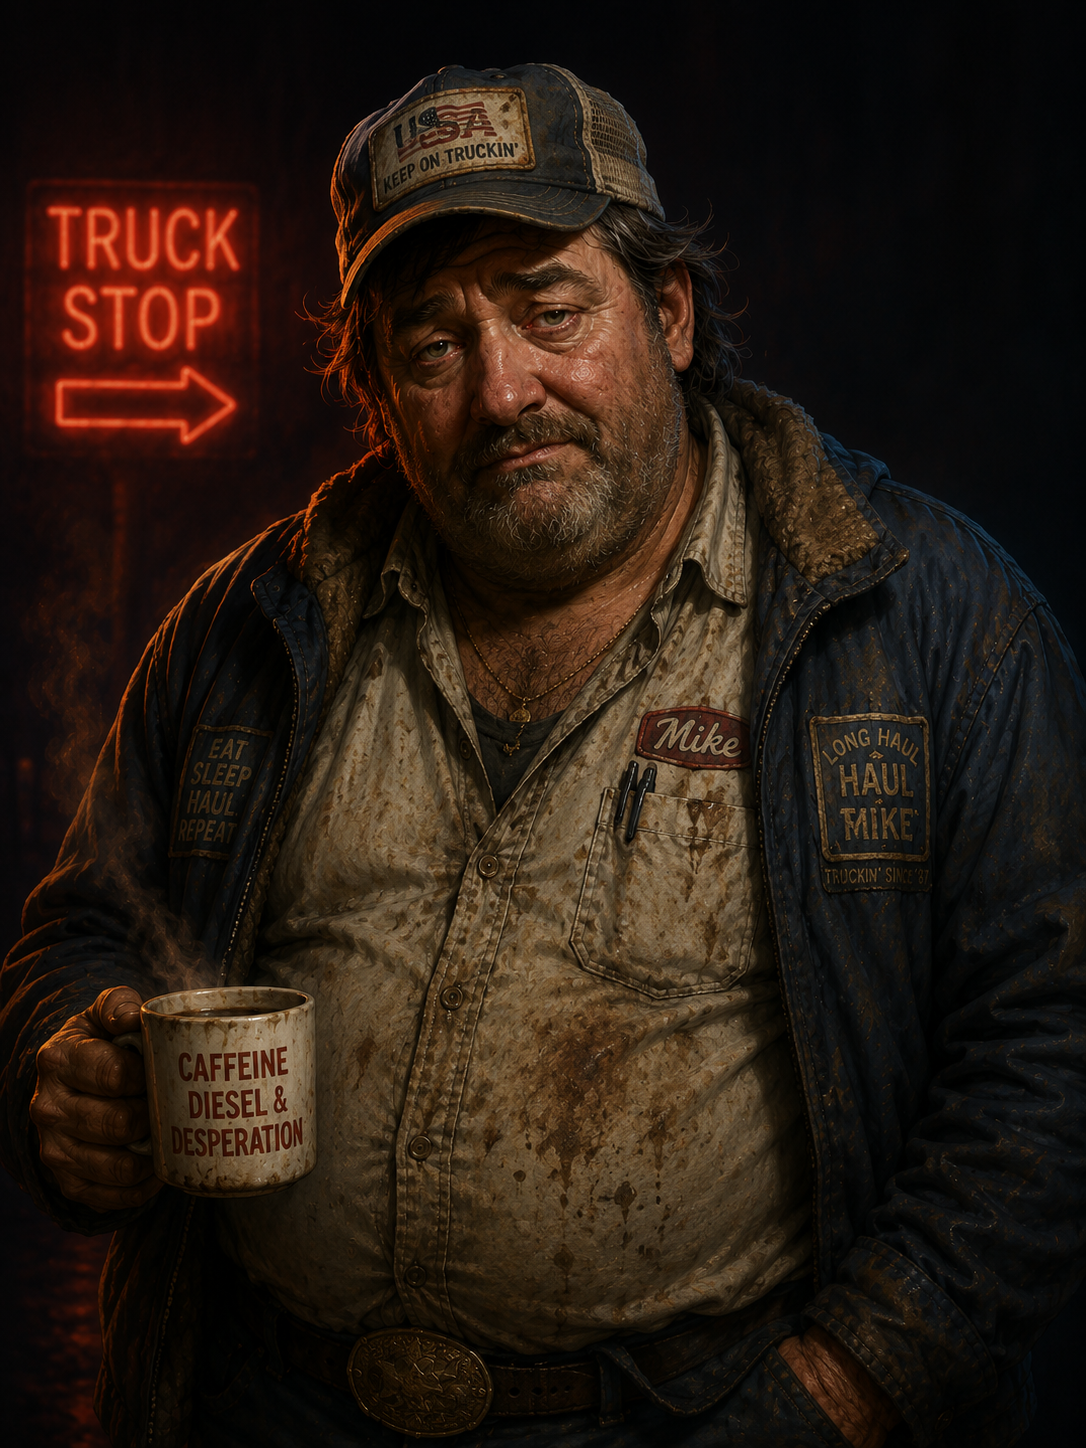
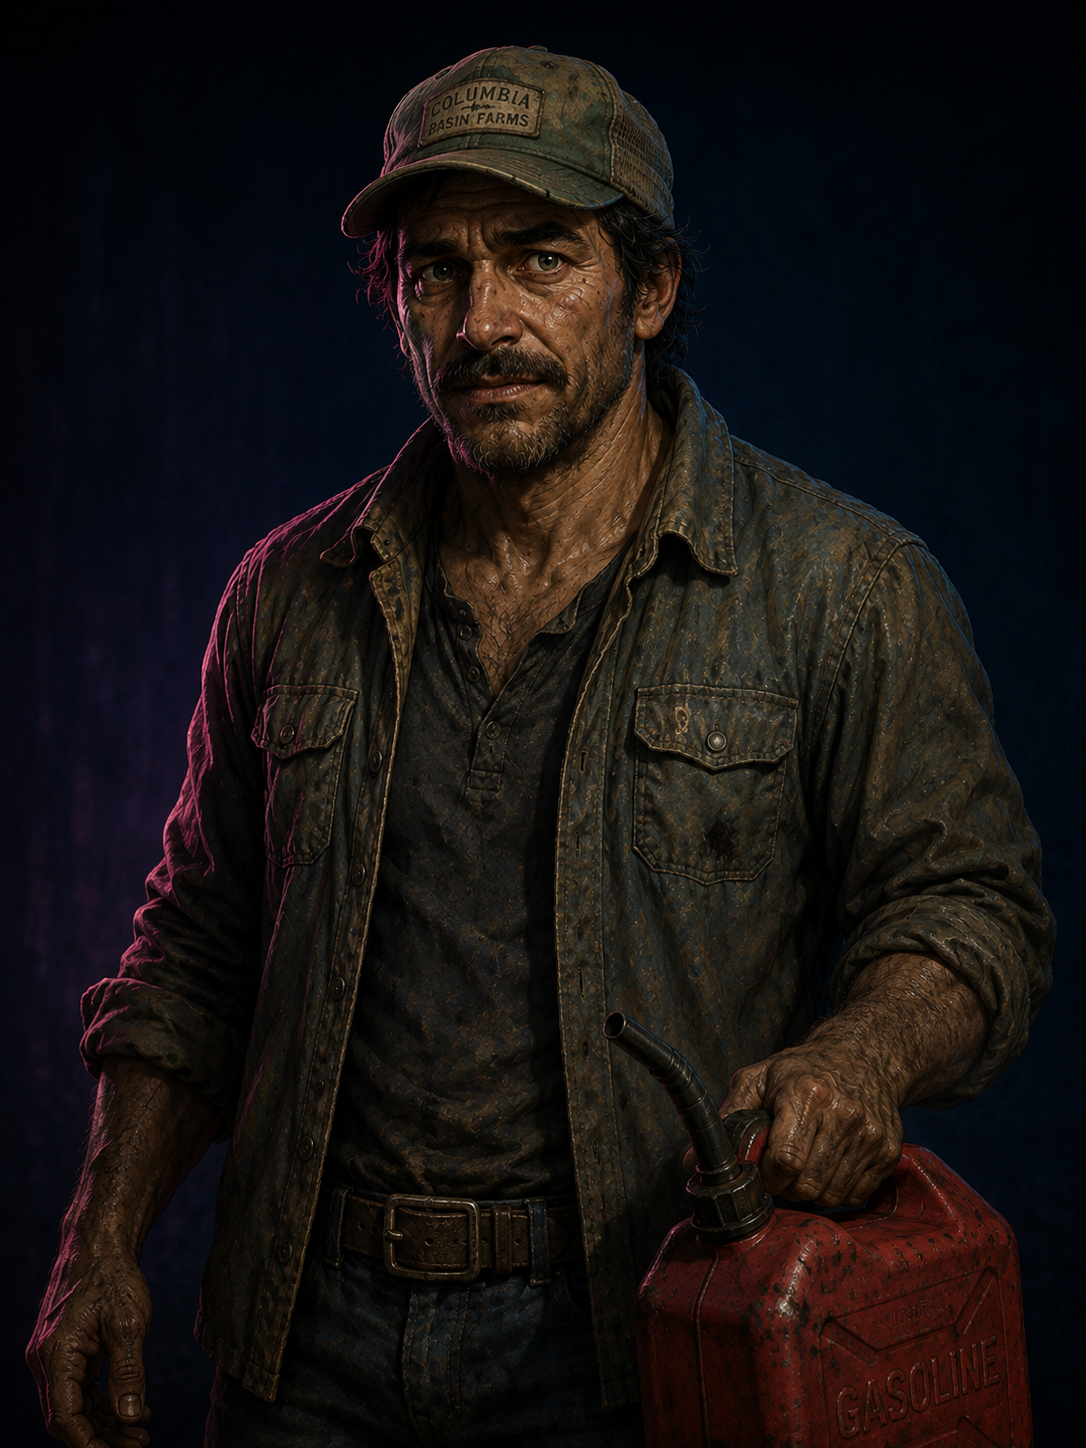
Encounters: farm worker art + 6 new cards (women characters)
Adds Bellevue app founder, Issaquah hitchhiker, Cle Elum park ranger,
Ellensburg diner waitress, Hatton roadside grandma, Washtucna tow driver
(6 new stops covered, mostly women). New npc_* portrait keys + manifest
entries; procedural placeholders until art is dropped in.

diff --git a/src/data/encounters.js b/src/data/encounters.js
@@ -126,6 +126,109 @@ export const REST_STOP_ENCOUNTERS = [
       { label: "Risk it on empty", effects: {} },
     ],
   },
+
+  // ── Bellevue (B) — tech-money hustle ────────────────────────────────────
+  {
+    id: 'bellevue_traffic_app',
+    stopId: 'B', weight: 2,
+    portrait: 'biz_founder', speaker: 'App Founder',
+    line: "Our app reroutes you around every speed trap to Pullman. Freemium. The free part is the disappointment.",
+    fact: "Bellevue grew from a quiet suburb into a glass-tower tech hub in barely two decades.",
+    choices: [
+      {
+        label: "Buy premium ($60)",
+        cost: 60,
+        chance: [
+          { p: 0.7, effects: { heatStars: -1, timeSec: +30, dialogue: "It actually works — you glide past two traps. She's already pitching a Series B." } },
+          { p: 0.3, effects: { dialogue: "\"Servers are scaling,\" she says, as the app crashes. So does your $60." } },
+        ],
+      },
+      { label: "Ask for the free version", effects: { revealHazard: 'speed_trap' } },
+      { label: "Keep your data", effects: {} },
+    ],
+  },
+
+  // ── Issaquah (I) — hitchhiker toward the pass ───────────────────────────
+  {
+    id: 'issaquah_hitcher',
+    stopId: 'I', weight: 2,
+    portrait: 'hiker_woman', speaker: 'Hitchhiker',
+    line: "I need a lift toward the pass. Gas money up front, zero small talk. Best offer you'll get today.",
+    fact: "Issaquah sits at the foot of the Cascades, where the suburbs finally give up.",
+    choices: [
+      {
+        label: "Pick her up",
+        chance: [
+          { p: 0.6, effects: { cash: +40, dialogue: "She pays, navigates the curves better than your GPS, and vanishes at the summit. Ideal passenger." } },
+          { p: 0.4, effects: { heatStars: +1, dialogue: "Turns out she's on a list. Now you're adjacent to it." } },
+        ],
+      },
+      { label: "Take gas money, no ride", effects: { cash: +20, dialogue: "\"Cold. Respect.\" She hands you a twenty and walks on." } },
+      { label: "Drive on", effects: {} },
+    ],
+  },
+
+  // ── Cle Elum (C) — elk country ranger ───────────────────────────────────
+  {
+    id: 'cleelum_ranger',
+    stopId: 'C', weight: 2,
+    portrait: 'park_ranger', speaker: 'Park Ranger',
+    line: "Elk move at dusk through here, and they do not check their blind spots. Neither do you, apparently.",
+    fact: "The forested Cle Elum stretch is prime elk country in the Cascade foothills.",
+    choices: [
+      { label: "Heed the warning", effects: { buff: 'elk_ready', revealHazard: 'elk', dialogue: "\"Slow at the tree lines. They're bigger than your car's opinions.\"" } },
+      { label: "Point her at a 'lost hiker' up the road", effects: { heatStars: -1, dialogue: "She radios it in, distracted. Your record breathes a little easier." } },
+      { label: "Nod and leave", effects: {} },
+    ],
+  },
+
+  // ── Ellensburg (E) — rodeo-town diner ───────────────────────────────────
+  {
+    id: 'ellensburg_diner',
+    stopId: 'E', weight: 3,
+    portrait: 'diner_waitress', speaker: 'Diner Waitress',
+    line: "Rodeo's in town so the coffee's fresh and the regulars are feral. You look like you're running from something. Pie?",
+    fact: "Ellensburg is Kittitas County's rodeo-and-college town, roughly halfway across the state.",
+    choices: [
+      { label: "Coffee & pie ($12)", cost: 12, effects: { hp: +4, timeSec: +15, dialogue: "Best decision you've made all trip. Low bar, but still." } },
+      { label: "Ask what's ahead", effects: { revealHazard: 'wind', dialogue: "\"Wind past Vantage'll part your hair through the windshield.\"" } },
+      { label: "Just the check", effects: {} },
+    ],
+  },
+
+  // ── Hatton (H) — the loneliest rest stop ────────────────────────────────
+  {
+    id: 'hatton_grandma',
+    stopId: 'H', weight: 3,
+    portrait: 'grandma', speaker: 'Roadside Grandma',
+    line: "Not many stop in Hatton, dear. I keep gas for the ones who do. And cookies. The gas is safer.",
+    fact: "Hatton is a tiny spot on WA-26, in the sparse country between Othello and Washtucna.",
+    choices: [
+      { label: "Buy her gas ($35)", cost: 35, effects: { fuelMi: +50, dialogue: "\"Drive safe. Or don't. I'll hear about it either way.\"" } },
+      {
+        label: "Take a cookie",
+        chance: [
+          { p: 0.7, effects: { hp: +3, dialogue: "Weirdly restorative. You feel watched, but nourished." } },
+          { p: 0.3, effects: { timeSec: -20, dialogue: "You blink and twenty minutes are gone. Really good cookie." } },
+        ],
+      },
+      { label: "Politely flee", effects: {} },
+    ],
+  },
+
+  // ── Washtucna (W) — the tow driver who's seen things ────────────────────
+  {
+    id: 'washtucna_tow',
+    stopId: 'W', weight: 2,
+    portrait: 'tow_driver', speaker: 'Tow Driver',
+    line: "I pull three wrecks a week off this stretch. Business is good, which should worry you.",
+    fact: "The Washtucna area is sparse wheat-country highway — long gaps between help.",
+    choices: [
+      { label: "Prepay a tow discount ($50)", cost: 50, effects: { buff: 'tow_insurance', dialogue: "\"Crash and I'll only judge you a little.\"" } },
+      { label: "Have her bang out a dent ($40)", cost: 40, effects: { hp: +12, dialogue: "A mallet, a grunt, and your car is marginally less sad." } },
+      { label: "Wave her off", effects: {} },
+    ],
+  },
 ];
 
 /** Deterministic-ish weighted pick without Math.random (pass an rng()->[0,1)).

diff --git a/src/data/npcPortraits.js b/src/data/npcPortraits.js
@@ -21,6 +21,13 @@ export const NPC_PORTRAITS = {
   hiker_one_boot:  { texture: 'npc_hiker_one_boot',  name: 'Hiker (One Boot)',     placeholderTint: 0x6E8B3D },
   farm_worker:     { texture: 'npc_farm_worker',     name: 'Farm Worker',          placeholderTint: 0x9A6B2E },
   desert_oddball:  { texture: 'npc_desert_oddball',  name: 'Desert Oddball',       placeholderTint: 0xB5462E },
+  // Women of the road.
+  biz_founder:     { texture: 'npc_biz_founder',     name: 'App Founder',          placeholderTint: 0x4AC3B0 },
+  hiker_woman:     { texture: 'npc_hiker_woman',     name: 'Hitchhiker',           placeholderTint: 0x7FA05A },
+  park_ranger:     { texture: 'npc_park_ranger',     name: 'Park Ranger',          placeholderTint: 0x3E7D4F },
+  diner_waitress:  { texture: 'npc_diner_waitress',  name: 'Diner Waitress',       placeholderTint: 0xD46A8A },
+  grandma:         { texture: 'npc_grandma',         name: 'Roadside Grandma',     placeholderTint: 0xB59AC4 },
+  tow_driver:      { texture: 'npc_tow_driver',      name: 'Tow Driver',           placeholderTint: 0xC98A3A },
 };
 
 /** Resolve a portrait descriptor by key, falling back to a generic card. */

diff --git a/src/systems/AssetManifest.js b/src/systems/AssetManifest.js
@@ -139,6 +139,12 @@ export const ASSET_MANIFEST = {
     { key: 'npc_ski_bum',        path: 'assets/npc/ski_bum.png' },
     { key: 'npc_long_haul_mike', path: 'assets/npc/long_haul_mike.png' },
     { key: 'npc_farm_worker',    path: 'assets/npc/farm_worker.png' },
+    { key: 'npc_biz_founder',    path: 'assets/npc/biz_founder.png' },
+    { key: 'npc_hiker_woman',    path: 'assets/npc/hiker_woman.png' },
+    { key: 'npc_park_ranger',    path: 'assets/npc/park_ranger.png' },
+    { key: 'npc_diner_waitress', path: 'assets/npc/diner_waitress.png' },
+    { key: 'npc_grandma',        path: 'assets/npc/grandma.png' },
+    { key: 'npc_tow_driver',     path: 'assets/npc/tow_driver.png' },
   ],
   buildings: [
     { key: 'space_needle', path: 'assets/buildings/codex/space_needle_landmark.png' },